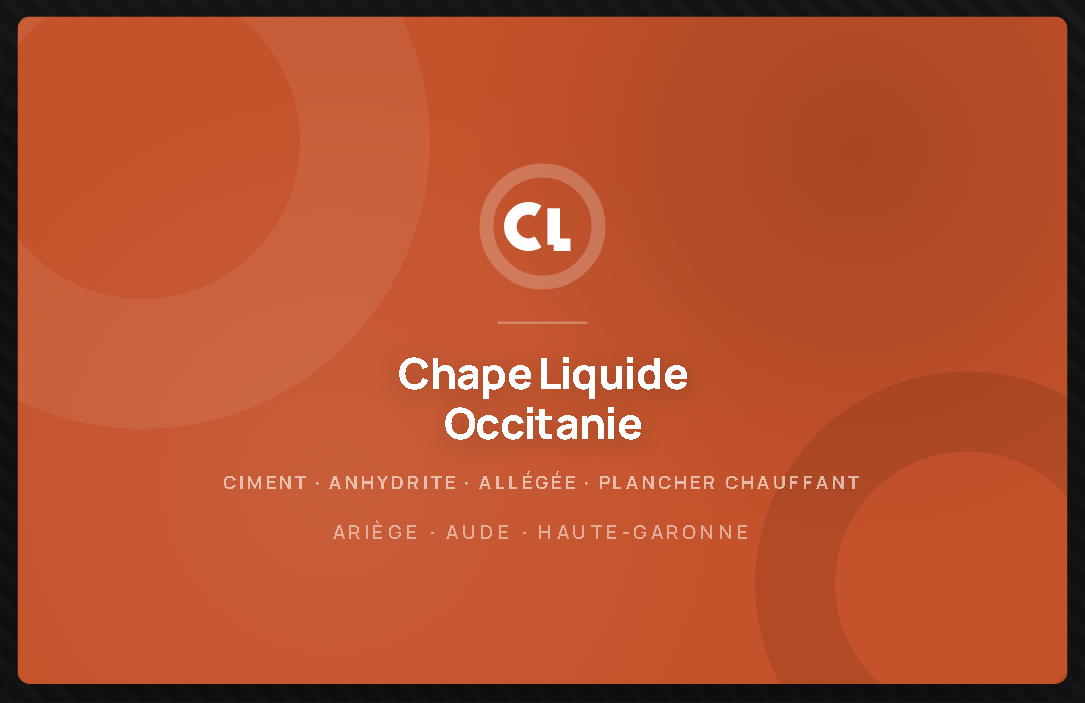
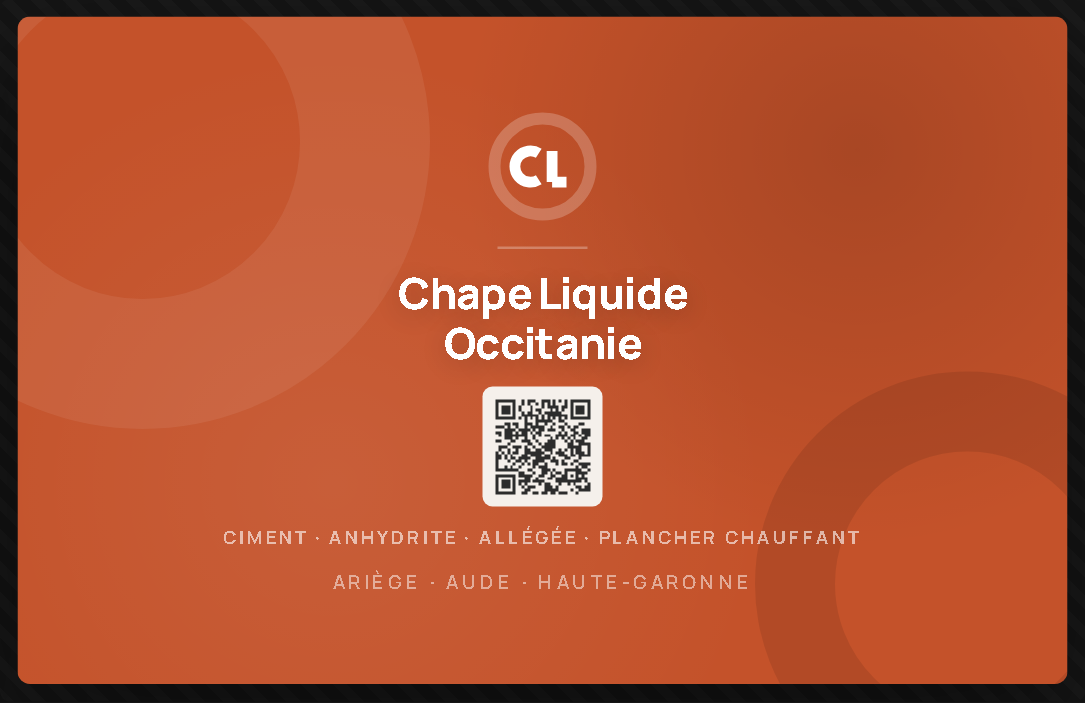
feat: QR code verso carte de visite — chapeliquide-occitanie.fr
QR code (charcoal sur crème, niveau H) injecté via script dans le verso,
entre le nom de marque et les spécialités. Généré localement avec qrcode (npm).

diff --git a/internal/cartes-visite/carte-visite-clo.html b/internal/cartes-visite/carte-visite-clo.html
@@ -166,11 +166,13 @@
                 radial-gradient(circle at 80% 20%,rgba(0,0,0,0.14) 0%,transparent 40%); }
   .pv-c1 { position:absolute; top:-65px; left:-65px; width:230px; height:230px; border:52px solid rgba(255,255,255,0.07); border-radius:50%; }
   .pv-c2 { position:absolute; bottom:-45px; right:-45px; width:170px; height:170px; border:32px solid rgba(0,0,0,0.09); border-radius:50%; }
-  .pv-body { position:relative; z-index:2; display:flex; flex-direction:column; align-items:center; gap:10px; }
-  .pv-icon { width:56px; height:56px; }
+  .pv-body { position:relative; z-index:2; display:flex; flex-direction:column; align-items:center; gap:8px; }
+  .pv-icon { width:48px; height:48px; }
   .pv-line { width:36px; height:1px; background:rgba(255,255,255,0.28); }
   .pv-tagline { font-size:7px; font-weight:700; color:rgba(255,255,255,0.6); letter-spacing:.2em; text-transform:uppercase; }
   .pv-dept    { font-size:7.5px; font-weight:600; color:rgba(255,255,255,0.5); letter-spacing:.17em; text-transform:uppercase; }
+  .pv-qr-box  { width:48px; height:48px; background:#F5F0EB; border-radius:4px; display:flex; align-items:center; justify-content:center; overflow:hidden; }
+  #qr-img-cv  { width:40px; height:40px; display:block; }
 
   /* Toast */
   .toast { position:fixed; bottom:28px; left:50%; transform:translateX(-50%) translateY(16px); background:var(--terra); color:#fff; padding:10px 20px; border-radius:8px; font-size:11px; font-weight:600; opacity:0; transition:all .3s; pointer-events:none; z-index:100; }
@@ -311,6 +313,9 @@
             </svg>
             <div class="pv-line"></div>
             <div style="font-size:17px;font-weight:800;color:#fff;letter-spacing:-0.02em;text-align:center;line-height:1.15;text-shadow:0 2px 10px rgba(0,0,0,0.2);">Chape Liquide<br>Occitanie</div>
+            <div class="pv-qr-box">
+              <img id="qr-img-cv" src="" width="40" height="40" alt="chapeliquide-occitanie.fr">
+            </div>
             <div class="pv-tagline">Ciment · Anhydrite · Allégée · Plancher chauffant</div>
             <div class="pv-dept">Ariège · Aude · Haute-Garonne</div>
           </div>
